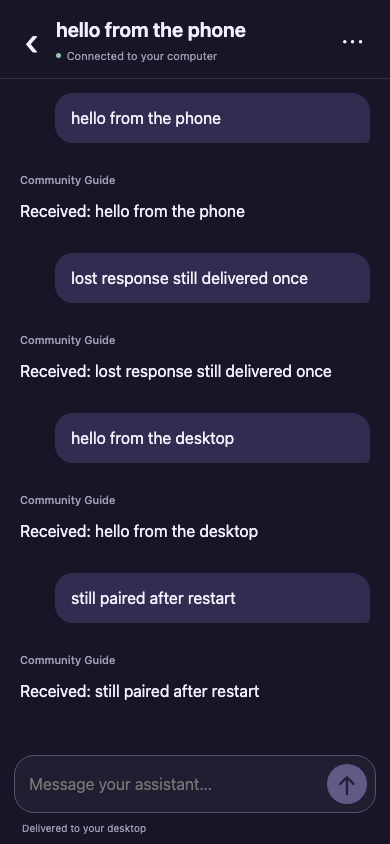
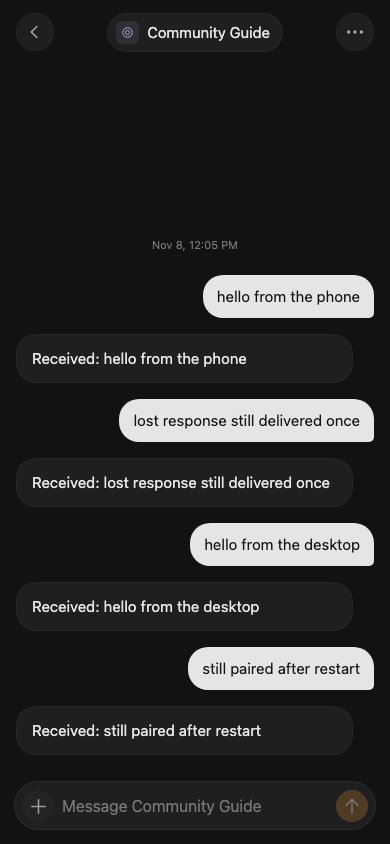
Match mobile chat styling and fix iPhone viewport behavior

diff --git a/packages/mobile/web/style.css b/packages/mobile/web/style.css
@@ -1,5 +1,22 @@
-:root{font:16px/1.55 -apple-system,BlinkMacSystemFont,"Segoe UI",sans-serif;color-scheme:dark;--bg:#171526;--card:#211e32;--text:#f3f0fc;--muted:#a39cb6;--line:#363149;--accent:#c4b3ff;--user:#342c50;--height:100dvh}*{box-sizing:border-box}html,body{margin:0;width:100%;height:100%;background:var(--bg);color:var(--text)}button,input,textarea{font:inherit}button{border:0;cursor:pointer;color:inherit;background:transparent;-webkit-tap-highlight-color:transparent}button:disabled{opacity:.4;cursor:default}[hidden]{display:none!important}button:focus-visible,input:focus-visible,textarea:focus-visible,summary:focus-visible{outline:2px solid var(--accent);outline-offset:3px}a{color:var(--accent)}
-#pair-screen{max-width:500px;margin:auto;padding:max(56px,env(safe-area-inset-top)) 28px 32px}.pair-logo{width:58px;height:58px;display:grid;place-items:center;background:var(--accent);color:#21163a;border-radius:18px;font-size:38px;font-weight:650;margin-bottom:38px}.eyebrow,.section-label{font-size:10px;letter-spacing:.15em;font-weight:650;color:var(--muted)}#pair-screen h1{font-size:35px;line-height:1.18;letter-spacing:-1px;margin:16px 0}#pair-status{color:var(--muted);min-height:74px}.pair-card{display:grid;grid-template-columns:26px 1fr;gap:16px 12px;background:var(--card);border:1px solid var(--line);border-radius:18px;padding:20px;margin:28px 0}.pair-card p{margin:0;font-size:14px}.step{display:grid;place-items:center;background:var(--user);color:var(--accent);border-radius:50%;width:24px;height:24px;font-size:12px}details{color:var(--muted);font-size:13px}#pair-form{display:flex;gap:8px;padding-top:12px}#pair-link{min-width:0;width:100%;background:var(--card);color:var(--text);padding:12px;border:1px solid var(--line);border-radius:10px}#pair-form button{border-radius:10px;background:var(--accent);color:var(--bg);padding:8px 15px}.install-note{font-size:12px;color:var(--muted);margin-top:32px}
-#app{height:var(--height);max-width:720px;margin:auto;display:flex;flex-direction:column;padding-top:env(safe-area-inset-top);overflow:hidden}header{display:flex;align-items:center;gap:10px;flex:none;padding:17px 18px 14px;border-bottom:1px solid var(--line);background:var(--bg);z-index:3}.heading{min-width:0;flex:1}.heading h1{font-size:20px;font-weight:620;line-height:1.3;margin:0;white-space:nowrap;overflow:hidden;text-overflow:ellipsis}.heading p{font-size:11px;color:var(--muted);margin:4px 0 0;display:flex;gap:6px;align-items:center}#status-dot{height:5px;width:5px;border-radius:50%;background:#9b9279}#status-dot[data-online=true]{background:#92c6ab}.icon-button{flex:none;min-width:38px;min-height:44px;border-radius:12px;font-size:26px;line-height:1}#back{font-size:38px;text-align:left;min-width:26px}#menu-button{font-size:15px;letter-spacing:1px}#menu{position:absolute;z-index:5;right:16px;top:100px;width:280px;padding:20px;border:1px solid var(--line);border-radius:16px;background:var(--card);box-shadow:0 12px 30px #0005;font-size:13px;color:var(--muted)}#menu button{color:#e4a4a4;padding:12px 0}#list-view{overflow:auto;flex:1;padding:20px 18px}.search-wrap input{width:100%;padding:12px 15px;border:1px solid var(--line);border-radius:12px;background:var(--card);color:var(--text);outline:none;font-size:16px}.section-label{margin:26px 4px 10px}.chat-row{display:flex;align-items:center;gap:13px;width:100%;text-align:left;padding:16px 3px;border-bottom:1px solid var(--line)}.chat-row .avatar{width:44px;height:44px;flex:none}.chat-row .row-copy{min-width:0;flex:1}.chat-row strong{display:block;font-size:16px;white-space:nowrap;overflow:hidden;text-overflow:ellipsis;font-weight:560}.chat-row small{display:block;font-size:12px;color:var(--muted);margin-top:3px}.chat-row .chevron{color:var(--muted)}#empty{text-align:center;padding:70px 15px;color:var(--muted)}#empty h2{font-size:22px;color:var(--text)}
-#chat-view{position:relative;display:flex;flex-direction:column;flex:1;min-height:0}#messages{overflow:auto;flex:1;min-height:0;padding:28px 20px 14px;overscroll-behavior:contain;-webkit-overflow-scrolling:touch}.message{margin:0 0 28px;max-width:100%;overflow-wrap:anywhere}.message.user{max-width:90%;margin-left:auto}.message.user .content{border-radius:18px 18px 5px 18px;background:var(--user);padding:12px 16px}.speaker{font-size:11px;font-weight:500;color:var(--muted);margin:0 0 10px}.message.user .speaker{display:none}.content{font-size:16px;line-height:1.65}.content>:first-child{margin-top:0}.content>:last-child{margin-bottom:0}.content p{margin:0 0 16px}.content ul,.content ol{padding-left:22px}.content li{margin-bottom:8px}.content h1,.content h2,.content h3{font-size:18px;margin:24px 0 12px}.content pre{max-width:100%;overflow:auto;white-space:pre;padding:14px;background:#0f0d1a;border:1px solid var(--line);border-radius:10px;font-size:12px}.content code{font-family:ui-monospace,monospace;font-size:.85em}.content table{display:block;overflow-x:auto;border-collapse:collapse;font-size:13px}.content th,.content td{padding:8px;border:1px solid var(--line)}.typing{color:var(--accent);font-size:22px;letter-spacing:5px;animation:breathe 1.4s ease-in-out infinite}@keyframes breathe{50%{opacity:.35}}#composer{display:flex;align-items:flex-end;gap:10px;margin:0 14px;padding:8px 8px 8px 14px;border:1px solid #5a5071;border-radius:20px;background:var(--card);flex:none}#prompt{width:100%;min-width:0;resize:none;max-height:130px;min-height:40px;padding:8px 0;border:0;outline:none;background:transparent;color:var(--text);font-size:16px;line-height:24px}#send{width:40px;height:40px;border-radius:50%;flex:none;background:var(--accent);color:#271c40;font-size:26px}.bottom-note{min-height:30px;display:flex;align-items:center;justify-content:space-between;font-size:10px;color:var(--muted);padding:8px 22px calc(8px + env(safe-area-inset-bottom))}#stop{font-size:12px;color:var(--accent);padding:0 8px;min-height:28px}#chat-hint{font-size:11px;color:var(--muted);padding:0 20px;margin:0 0 8px}#notice{position:fixed;bottom:calc(100px + env(safe-area-inset-bottom));left:20px;right:20px;max-width:650px;margin:auto;padding:12px 16px;background:#4e3141;border:1px solid #a5798c;border-radius:12px;font-size:13px;z-index:6}#jump{position:absolute;right:20px;bottom:116px;border:1px solid var(--line);background:var(--card);padding:8px 12px;border-radius:20px;color:var(--accent);font-size:12px}
-@media(min-width:720px){#app{border-left:1px solid var(--line);border-right:1px solid var(--line)}#messages{padding:32px}#composer{margin:0 24px}}@media(prefers-reduced-motion:reduce){*,*::before,*::after{animation:none!important;scroll-behavior:auto!important}}
+/* Mobile proportions follow the desktop chat: neutral surfaces, compact controls. */
+:root{font:15px/1.47 -apple-system,BlinkMacSystemFont,"Segoe UI",sans-serif;color-scheme:dark;--bg:#121212;--card:#1f1f1f;--text:#e5e5e5;--muted:#999;--tertiary:#777;--line:#ffffff0a;--hover:#ffffff0a;--user:#e5e5e5;--on-user:#141414;--height:100dvh}
+*{box-sizing:border-box}html,body{margin:0;width:100%;height:100%;background:var(--bg);color:var(--text)}body{overflow:hidden}button,input,textarea{font:inherit}button{border:0;cursor:pointer;color:inherit;background:transparent;-webkit-tap-highlight-color:transparent;touch-action:manipulation}button:disabled{opacity:.4;cursor:default}button:active:not(:disabled){transform:scale(.96)}button{transition:background .15s,transform .15s}[hidden]{display:none!important}button:focus-visible,input:focus-visible,textarea:focus-visible,summary:focus-visible{outline:2px solid #999;outline-offset:3px}a{color:#9dc4ea}svg{width:22px;height:22px;fill:none;stroke:currentColor;stroke-width:1.7;stroke-linecap:round;stroke-linejoin:round;display:block}[data-icon]{display:grid;place-items:center;flex:none}a,button,summary{-webkit-tap-highlight-color:transparent}
+#app{height:var(--height);max-width:720px;margin:auto;display:flex;flex-direction:column;padding-top:env(safe-area-inset-top);overflow:hidden;position:relative}header{display:flex;align-items:center;gap:9px;flex:none;height:64px;padding:10px 16px;z-index:3;background:var(--bg)}.heading{min-width:0;flex:1}.heading h1{font-size:21px;font-weight:550;line-height:24px;margin:0;white-space:nowrap;overflow:hidden;text-overflow:ellipsis}.icon-button{flex:none;display:grid;place-items:center;width:38px;height:38px;border-radius:50%;background:var(--card);border:1px solid var(--line);color:#aaa}.title-pill{display:flex;align-items:center;min-width:0;gap:7px}#heading-avatar{width:25px;height:25px;flex:none}body[data-view=chat] .heading{display:flex;justify-content:center}body[data-view=chat] .title-pill{border:1px solid var(--line);background:var(--card);border-radius:999px;padding:7px 12px 7px 7px;min-width:0;max-width:100%;height:39px}body[data-view=chat] .heading h1{font-size:15px;font-weight:400;line-height:22px}body[data-view=chat] header{gap:12px}.connection-state{display:none;flex:none;font-size:12px;color:var(--muted);align-items:center;justify-content:center;gap:7px;padding:4px 12px 10px}.connection-state.offline{display:flex}#status-dot{width:5px;height:5px;border-radius:50%;background:#c69e69}.connection-state:not(.offline){position:absolute;width:1px;height:1px;padding:0;margin:-1px;overflow:hidden;clip:rect(0,0,0,0);display:flex}
+#menu,#composer-tools{position:absolute;z-index:5;padding:8px;border:1px solid #ffffff14;border-radius:16px;background:#252525;box-shadow:0 12px 34px #0007}#menu{right:16px;top:calc(64px + env(safe-area-inset-top));width:min(290px,calc(100% - 32px));font-size:13px;color:var(--muted)}#menu p{padding:0 10px}#menu button{color:#e5a4a4;padding:12px 10px;width:100%;text-align:left;border-radius:9px}#menu button:hover,#composer-tools button:hover{background:var(--hover)}#composer-tools{bottom:calc(74px + env(safe-area-inset-bottom));left:14px;width:220px}#composer-tools button{display:flex;align-items:center;gap:12px;text-align:left;width:100%;padding:12px;border-radius:9px}#composer-tools svg{width:19px;height:19px;color:var(--muted)}
+#list-view{overflow:auto;flex:1;padding:8px 8px 28px;overscroll-behavior:contain}.search-wrap{display:flex;align-items:center;gap:9px;margin:4px 8px 16px;padding:0 12px;background:var(--card);border:1px solid var(--line);border-radius:12px;color:var(--tertiary)}.search-wrap svg{width:18px;height:18px}.search-wrap input{min-width:0;width:100%;height:40px;padding:8px 0;border:0;background:transparent;color:var(--text);outline:none;font-size:16px}.search-wrap input::placeholder{color:var(--tertiary)}.chat-row{display:flex;align-items:center;gap:12px;width:100%;text-align:left;padding:13px 12px;border-radius:16px;margin-bottom:2px;min-height:73px}.chat-row:hover,.chat-row:active{background:var(--card)}.chat-row .avatar{width:44px;height:44px;flex:none}.chat-row .row-copy{min-width:0;flex:1}.chat-row strong{display:block;font-size:16px;line-height:22px;font-weight:450;white-space:nowrap;overflow:hidden;text-overflow:ellipsis}.chat-row small{display:block;font-size:14px;color:var(--muted);line-height:20px;margin-top:2px;white-space:nowrap;overflow:hidden;text-overflow:ellipsis}#empty{text-align:center;padding:100px 24px;color:var(--muted)}#empty h2{font-size:19px;font-weight:500;color:var(--text);margin:0 0 10px}#empty p{font-size:14px;margin:0}
+#chat-view{position:relative;display:flex;flex-direction:column;flex:1;min-height:0}#messages{overflow:auto;flex:1;min-height:0;padding:24px 16px 10px;overscroll-behavior:contain;-webkit-overflow-scrolling:touch}.message{margin:0 0 16px;max-width:94%;overflow-wrap:anywhere}.message.user{max-width:90%;margin-left:auto;width:fit-content}.message .content{background:var(--card);border:1px solid var(--line);border-radius:20px;padding:12px 15px 13px;font-size:15px;line-height:1.5;letter-spacing:.005em}.message.user .content{border-radius:20px 20px 5px 20px;background:var(--user);color:var(--on-user);padding:10px 14px;border:0}.speaker{display:none}.group-chat .message.assistant .speaker{display:block;font-size:11px;color:var(--muted);margin:0 8px 6px}.content>:first-child{margin-top:0}.content>:last-child{margin-bottom:0}.content p{margin:0 0 14px}.content ul,.content ol{padding-left:21px}.content li{margin-bottom:7px}.content h1,.content h2,.content h3{font-size:17px;line-height:1.4;margin:20px 0 10px}.content pre{max-width:100%;overflow:auto;white-space:pre;padding:12px;background:#151515;border:1px solid #ffffff0a;border-radius:9px;font-size:12px}.content code{font-family:ui-monospace,monospace;font-size:.86em}.content table{display:block;overflow-x:auto;border-collapse:collapse;font-size:13px}.content th,.content td{padding:8px;border:1px solid #ffffff18}.typing{color:var(--muted);animation:breathe 1.4s ease-in-out infinite}.date-label{font-size:11px;line-height:16px;color:var(--tertiary);text-align:center;margin:0 0 22px}.waiting-avatar{display:block;width:32px;height:32px;margin:12px 5px;animation:working 1.9s ease-in-out infinite;transform-origin:center}.waiting-avatar img{width:100%;height:100%}@keyframes working{0%,100%{transform:translateY(0) rotate(-6deg)}50%{transform:translateY(-3px) rotate(6deg)}}@keyframes breathe{50%{opacity:.4}}
+#composer{display:flex;align-items:flex-end;gap:8px;min-height:49px;margin:0 14px;padding:7px;border:1px solid #ffffff0e;border-radius:27px;background:var(--card);box-shadow:0 1px 0 #ffffff03 inset;flex:none}.composer-circle{display:grid;place-items:center;width:32px;height:32px;padding:0;border-radius:50%;background:#ffffff06;color:var(--muted);flex:none}.composer-circle svg{width:20px;height:20px}#compose-menu svg{width:23px;height:23px}#prompt{flex:1;width:0;min-width:0;resize:none;max-height:130px;min-height:32px;padding:5px 0;border:0;outline:none;background:transparent;color:var(--text);font-size:16px;line-height:22px;margin:0}#prompt::placeholder{color:var(--tertiary);opacity:1}#send{background:#98632d;color:#fff;border:1px solid #ffffff05}#send:disabled{opacity:.4}.bottom-note{height:max(14px,env(safe-area-inset-bottom));flex:none;position:relative;display:flex;align-items:center;justify-content:flex-end;margin:0 20px;padding-bottom:env(safe-area-inset-bottom)}#delivery-status{position:absolute;width:1px;height:1px;overflow:hidden;clip:rect(0,0,0,0)}#stop{position:absolute;bottom:calc(64px + env(safe-area-inset-bottom));right:6px;display:flex;align-items:center;gap:7px;font-size:12px;border:1px solid #ffffff12;border-radius:20px;padding:7px 12px;background:var(--card);color:var(--muted)}.stop-square{width:8px;height:8px;background:currentColor;border-radius:2px}#chat-hint{font-size:11px;color:var(--muted);padding:0 20px;margin:0 0 8px}#chat-hint:empty{display:none}#notice{position:absolute;bottom:calc(82px + env(safe-area-inset-bottom));left:14px;right:14px;max-width:650px;margin:auto;padding:12px 16px;background:#292222;border:1px solid #5a4141;border-radius:12px;font-size:13px;z-index:6}#jump{position:absolute;right:22px;bottom:80px;border:1px solid #ffffff12;background:#292929;width:32px;height:32px;border-radius:50%;display:grid;place-items:center;color:var(--muted);box-shadow:0 3px 10px #0004}#jump svg{width:16px;height:16px;transform:rotate(180deg)}
+#pair-screen{max-width:390px;height:100%;overflow:auto;margin:auto;padding:calc(70px + env(safe-area-inset-top)) 28px 30px;text-align:center}.pair-logo{width:72px;height:72px;border-radius:22px;display:block;margin:0 auto 24px}#pair-screen h1{font-size:23px;line-height:1.3;font-weight:500;letter-spacing:-.4px;margin:0 0 14px}#pair-status{font-size:15px;color:var(--muted);line-height:1.5;min-height:46px;margin:0 0 30px}.pair-card{display:grid;grid-template-columns:22px 1fr;gap:19px 12px;text-align:left;margin:0 0 32px;padding:22px 18px;background:var(--card);border-radius:20px;border:1px solid var(--line)}.pair-card p{margin:0;font-size:14px}.step{display:grid;place-items:center;background:#ffffff0c;color:var(--muted);border-radius:7px;width:23px;height:23px;font-size:12px}details{color:var(--muted);font-size:14px}#pair-form{display:flex;gap:8px;padding-top:14px}#pair-link{min-width:0;width:100%;background:var(--card);color:var(--text);padding:12px;border:1px solid #ffffff12;border-radius:12px}#pair-form button{border-radius:20px;background:var(--user);color:var(--on-user);padding:8px 16px}.install-note{font-size:12px;color:var(--tertiary);margin-top:30px}
+@media(min-width:720px){#app{border-left:1px solid var(--line);border-right:1px solid var(--line)}#messages{padding:32px}#composer{margin:0 24px}}@media(prefers-reduced-motion:reduce){*,*::before,*::after{animation:none!important;transition:none!important;scroll-behavior:auto!important}}
+
+.message-status{display:block;color:var(--muted);font-size:11px;margin:5px 8px}
+/* A short conversation rests against the composer, as in the desktop/mobile chat. */
+#messages{display:flex;flex-direction:column}#messages::before{content:"";flex:1 0 0}#messages>.message,#messages>.date-label,#messages>.waiting-avatar{flex:none}
+/* iOS zooms focused controls below 16px, including installed web apps. */
+#pair-link{font-size:16px}
+
+#notice{overflow-wrap:anywhere}
+
+/* Keep keyboard focus inside the scrolling transcript, not the document. */
+html,body{overscroll-behavior:none}
+body.editing #app{position:fixed;top:0;left:0;right:0}

diff --git a/packages/mobile/web/index.html b/packages/mobile/web/index.html
@@ -1,7 +1,57 @@
-<!doctype html><html lang="en"><head><meta charset="utf-8"><meta name="viewport" content="width=device-width,initial-scale=1,viewport-fit=cover"><meta name="theme-color" content="#171526"><meta name="apple-mobile-web-app-capable" content="yes"><meta name="apple-mobile-web-app-status-bar-style" content="black-translucent"><meta name="referrer" content="no-referrer"><link rel="manifest" href="/manifest.webmanifest"><link rel="apple-touch-icon" href="/icon.png"><link rel="stylesheet" href="/style.css"><title>Gratis</title></head><body>
-<section id="pair-screen"><div class="pair-logo">g</div><p class="eyebrow">GRATIS COMMUNITY</p><h1>Your conversations.<br>Within reach.</h1><p id="pair-status">Connect your phone from Gratis Community on your computer.</p><div class="pair-card"><span class="step">1</span><p>On your computer, choose <strong>Connect phone</strong>.</p><span class="step">2</span><p>Scan the QR code, then approve this phone on your computer.</p></div><details><summary>Have a pairing link?</summary><form id="pair-form"><input id="pair-link" type="text" autocomplete="off" spellcheck="false" placeholder="Paste your pairing link" aria-label="Pairing link"><button type="submit">Connect</button></form></details><p class="install-note">For an app on your Home Screen, use Safari’s Share menu → Add to Home Screen. Each browser profile pairs separately.</p></section>
-<div id="app" hidden><header><button id="back" class="icon-button" aria-label="Back to chats" hidden>‹</button><div class="heading"><h1 id="heading">Your chats</h1><p><span id="status-dot"></span><span id="connection-status">Connecting…</span></p></div><button id="new-chat" class="icon-button" aria-label="New chat">＋</button><button id="menu-button" class="icon-button" aria-label="Connection options">•••</button></header>
-<div id="menu" hidden><p>This phone is paired with your computer.</p><p>Keep the Mac awake and Gratis Community running.</p><p>To install: Share → Add to Home Screen.</p><button id="disconnect" type="button">Disconnect this phone</button></div>
-<section id="list-view"><div class="search-wrap"><input id="search" type="search" placeholder="Find a conversation" aria-label="Find a conversation"></div><p class="section-label">RECENT CONVERSATIONS</p><div id="conversations"></div><div id="empty" hidden><h2>A fresh start</h2><p>Start a conversation from your phone or computer.</p></div></section>
-<section id="chat-view" hidden><div id="messages" role="log" aria-live="polite"></div><button id="jump" type="button" hidden>Latest messages ↓</button><p id="chat-hint" role="status"></p><form id="composer"><textarea id="prompt" rows="1" maxlength="6000" placeholder="Message your assistant…" aria-label="Message your assistant"></textarea><button id="send" type="submit" aria-label="Send message">↑</button></form><div class="bottom-note"><span id="delivery-status">Private connection to your desktop</span><button id="stop" type="button" hidden>Stop</button></div></section>
-<div id="notice" role="alert" hidden></div></div><script type="module" src="/app.js"></script></body></html>
+<!doctype html>
+<html lang="en">
+<head>
+  <meta charset="utf-8">
+  <meta name="viewport" content="width=device-width,initial-scale=1,viewport-fit=cover">
+  <meta name="theme-color" content="#121212">
+  <meta name="apple-mobile-web-app-capable" content="yes">
+  <meta name="apple-mobile-web-app-status-bar-style" content="black-translucent">
+  <meta name="referrer" content="no-referrer">
+  <link rel="manifest" href="/manifest.webmanifest">
+  <link rel="apple-touch-icon" href="/icon.png">
+  <link rel="stylesheet" href="/style.css">
+  <title>Gratis</title>
+</head>
+<body>
+  <section id="pair-screen">
+    <img class="pair-logo" src="/icon.png" alt="Gratis">
+    <h1>Connect your phone</h1>
+    <p id="pair-status">Open Connect phone in Gratis Community on your computer.</p>
+    <div class="pair-card">
+      <span class="step">1</span><p>Scan the code on your computer.</p>
+      <span class="step">2</span><p>Choose <strong>Trust this phone</strong> on your computer.</p>
+    </div>
+    <details><summary>Use a pairing link</summary><form id="pair-form"><input id="pair-link" type="url" autocapitalize="off" autocorrect="off" autocomplete="off" spellcheck="false" placeholder="Paste your pairing link" aria-label="Pairing link"><button type="submit">Connect</button></form></details>
+    <p class="install-note">Add Gratis to your Home Screen from Safari’s Share menu.</p>
+  </section>
+  <div id="app" hidden>
+    <header>
+      <button id="back" class="icon-button" aria-label="Back to chats" hidden><svg viewBox="0 0 24 24" aria-hidden="true"><path d="m14 6-6 6 6 6"/></svg></button>
+      <div class="heading"><div class="title-pill"><img id="heading-avatar" alt="" hidden><h1 id="heading">Gratis</h1></div></div>
+      <button id="new-chat" class="icon-button" aria-label="New chat"><span data-icon="plus"></span></button>
+      <button id="menu-button" class="icon-button" aria-label="Connection options" aria-expanded="false"><svg viewBox="0 0 24 24" aria-hidden="true"><circle cx="5" cy="12" r="1"/><circle cx="12" cy="12" r="1"/><circle cx="19" cy="12" r="1"/></svg></button>
+    </header>
+    <div class="connection-state" role="status"><span id="status-dot"></span><span id="connection-status">Connecting…</span></div>
+    <div id="menu" hidden><p>This phone is paired with your computer.</p><p>Keep Gratis Community running and your Mac awake.</p><p>Add to Home Screen from Safari’s Share menu.</p><button id="disconnect" type="button">Disconnect this phone</button></div>
+    <section id="list-view">
+      <div class="search-wrap"><span data-icon="search"></span><input id="search" type="search" placeholder="Search" aria-label="Find a conversation"></div>
+      <div id="conversations"></div>
+      <div id="empty" hidden><h2>No chats yet</h2><p>Tap + to start a conversation.</p></div>
+    </section>
+    <section id="chat-view" hidden>
+      <div id="messages" role="log" aria-live="polite"></div>
+      <button id="jump" type="button" aria-label="Jump to latest message" hidden><span data-icon="arrow-up"></span></button>
+      <p id="chat-hint" role="status"></p>
+      <div id="composer-tools" hidden><button id="tools-new" type="button"><span data-icon="plus"></span>New chat</button><button id="tools-chats" type="button"><span data-icon="grid"></span>All chats</button><button id="tools-connection" type="button"><span data-icon="settings"></span>Connection</button></div>
+      <form id="composer">
+        <button id="compose-menu" class="composer-circle" type="button" aria-label="Chat actions" aria-expanded="false"><span data-icon="plus"></span></button>
+        <textarea id="prompt" rows="1" maxlength="6000" placeholder="Message your assistant" aria-label="Message your assistant"></textarea>
+        <button id="send" class="composer-circle" type="submit" aria-label="Send message"><span data-icon="arrow-up"></span></button>
+      </form>
+      <div class="bottom-note"><span id="delivery-status" role="status">Connected</span><button id="stop" type="button" hidden><span class="stop-square"></span>Stop</button></div>
+    </section>
+    <div id="notice" role="alert" hidden></div>
+  </div>
+  <script type="module" src="/app.js"></script>
+</body>
+</html>

diff --git a/packages/mobile/src/protocol.ts b/packages/mobile/src/protocol.ts
@@ -18,8 +18,8 @@ export function parseMobileCommand(raw: unknown): MobileCommand {
 }
 export const mobileCommandSchema = { parse: parseMobileCommand };
 export interface MobileSnapshot {
-  conversations: { id: string; title: string; status: string; provider: string; avatarShape?: string; avatarColor?: string; botName?: string }[];
-  selected?: { id: string; title: string; status: string; provider: string; messages: { id: string; role: string; content: string; status?: string; speaker?: string }[]; queued: number; computer: boolean; browserUrl?: string };
+  conversations: { id: string; title: string; status: string; provider: string; avatarShape?: string; avatarColor?: string; botName?: string; preview?: string; group?: boolean }[];
+  selected?: { id: string; title: string; status: string; provider: string; messages: { id: string; role: string; content: string; createdAt?: number; status?: string; speaker?: string }[]; queued: number; computer: boolean; group?: boolean; truncated?: boolean; browserUrl?: string };
 }
 export interface MobileStatus {
   paired: boolean; claimed: boolean; confirmed: boolean; inviteUrl?: string; error?: string;

diff --git a/docs/MOBILE.md b/docs/MOBILE.md
@@ -44,6 +44,10 @@ Clearing Safari/site data removes the phone credential and drafts. Disconnect th
 
 Active phone polling is about 900 ms and desktop polling 1.5 seconds, with additional updates triggered by chat changes. Background Safari is subject to iOS suspension. No instant-delivery SLA, offline agent execution or push notification service is included.
 
+## Device verification
+
+The [physical iPhone check](MOBILE_DEVICE_CHECK.md) records the Safari and Home Screen tests. The mobile layout shares the desktop’s neutral chat surfaces and icon set, with a compact avatar header, rounded bubbles and bottom composer. The installed view accounts for iOS status-bar and keyboard viewport differences.
+
 ## Verification
 
 `npm test` covers bridge persistence, bounded projection, commands and access checks. `packages/mobile` tests cover invitation expiry, confirmation, revocation, ownership and duplicate commands. `test/mobile-sync.mjs` uses a real relay with an isolated Electron profile and a mocked provider to test both directions, interrupted responses, reload, restart and revocation. The test defaults to a local relay on port 18879; `MOBILE_TEST_URL` and `MOBILE_TEST_SECRETS_FILE` select a private deployed relay. No credentials belong in the test report.

diff --git a/docs/MOBILE_DEVICE_CHECK.md b/docs/MOBILE_DEVICE_CHECK.md
@@ -1,0 +1,16 @@
+# Mobile device check
+
+Checked on 8 November 2026 using iPhone Mirroring and a disposable Community profile.
+
+- The Safari QR pairing completed with desktop trust.
+- A message entered on the iPhone appeared in the desktop conversation.
+- A message entered on the desktop appeared in the iPhone conversation.
+- The desktop application was updated and restarted; the phone reconnected without another QR code.
+- Gratis was installed on the iPhone Home Screen as a standalone web app.
+- iOS gave that app separate storage, so its initial pairing replaced the Safari pairing.
+- The standalone app retained its pairing after being dismissed and relaunched.
+- A focused composer submitted a test message with one native tap; the message reached the desktop.
+- The composer retained the header while typing and returned to the home-indicator area after sending.
+- Visual checks covered the compact avatar header, neutral chat bubbles, latest-message position and bottom composer.
+
+These checks used the explicitly labeled local demo responder. They verify device pairing, rendering and chat transport; they are not a claim of live Claude or Codex inference on the phone. Provider requests still run on the desktop.
